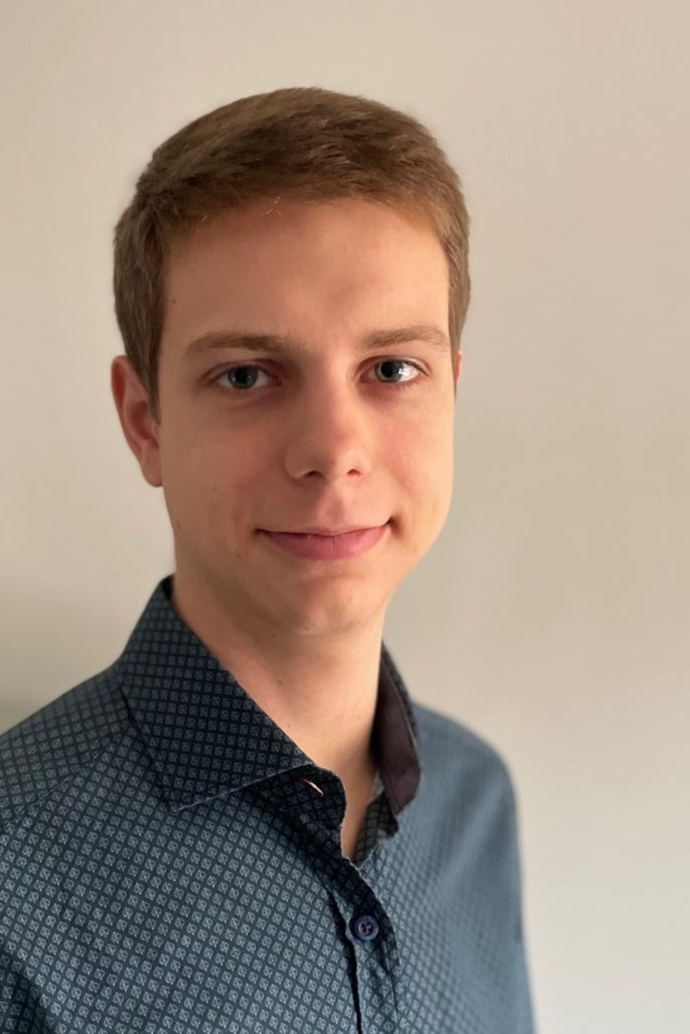
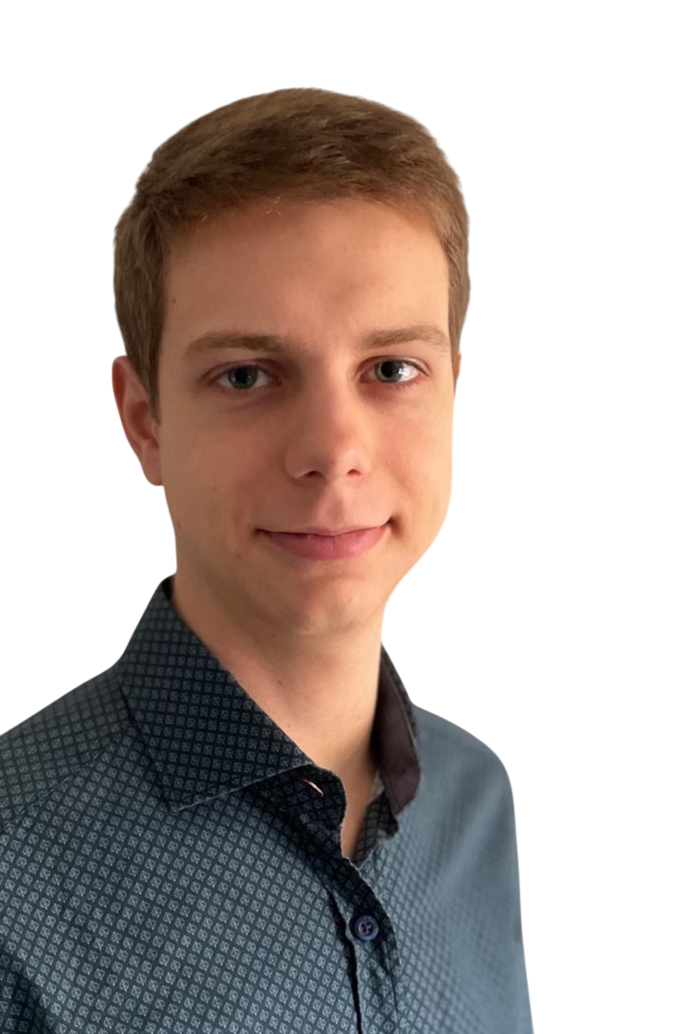
a

diff --git a/css/members.css b/css/members.css
@@ -75,7 +75,7 @@ ul
     font-weight: bold;
     width: 95%;
     height: 90%;
-    background-color: #fbf1dc;
+    background-color: #ffffff;
     align-content: center;
     border-radius: 10px;
     box-shadow: 5px 5px 3px rgba(0, 0, 0, 0.5);
